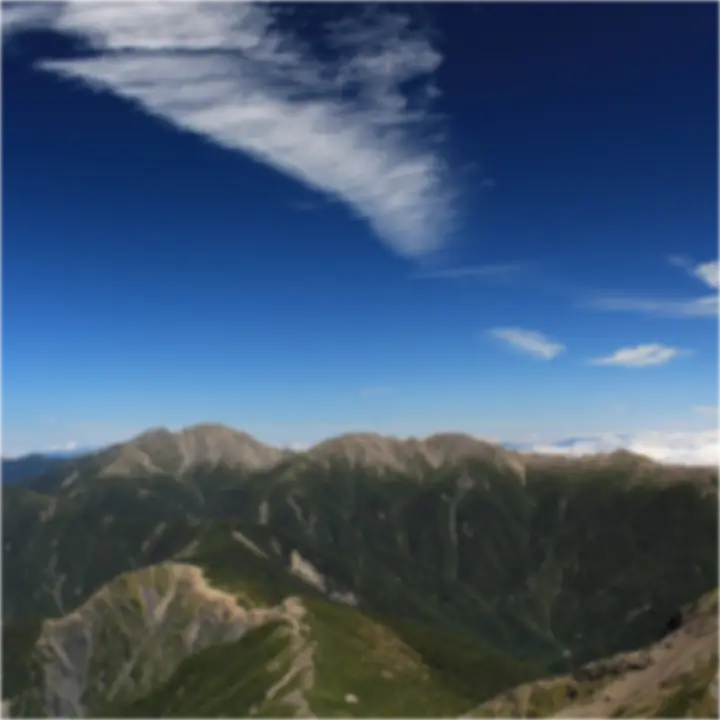
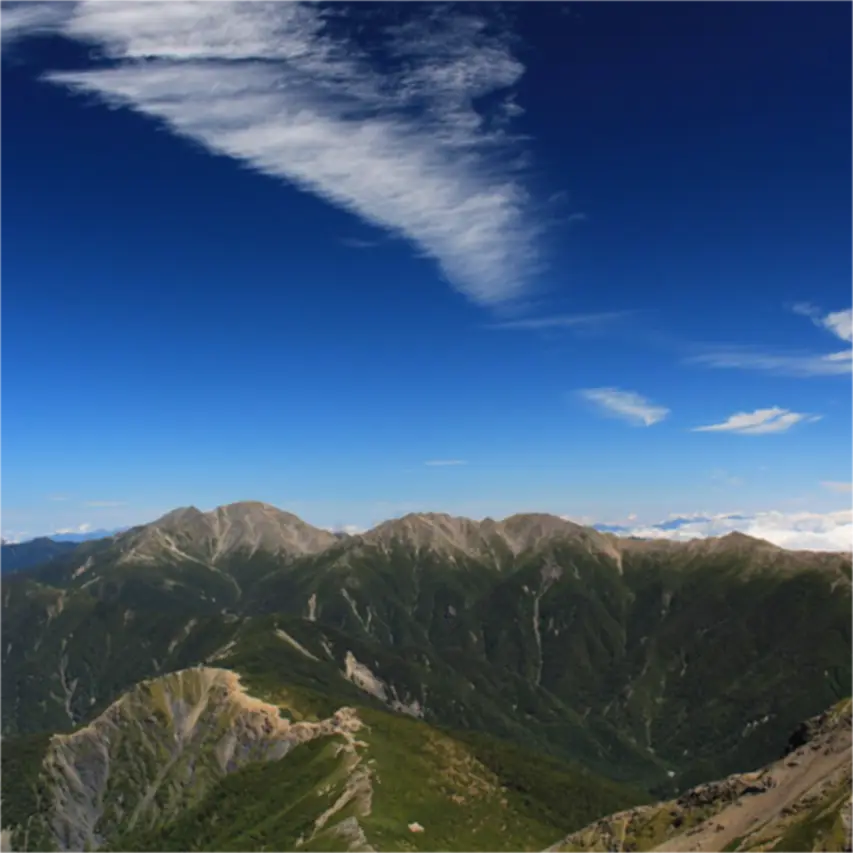
空の写真：ぼかしを減らし、もう一段濃く
- 写真を描き直し：853px（Commons の 1280px 版の短い辺そのまま）・ぼかし 2px→1px・彩度 115%・
  1枚40KBまで（4枚で102KB）。幅 390 の iPhone では 720px・2px がぼけて見えていた。
- 幕をもう一段薄く：明るい面は題の段 0.41→0.30・暦の段 0.475→0.425、暗い面は #686868・#505052。
  写真のあいだの字は題の段 40%・暦 50% 濃く（明るく）。字の濃さの比は画素の試験のまま。
- sw.js は空の写真を一度覚えたら取り直さないので、URL に ?v=2 を付けた（js と CSS がそろうのを試験で見張る）。
- 地面の色 --sky-g と時計の帯の色 BAR を測り直した。
- 「帯の中の写真は動かない」の試験は、くっきりした写真の描き直しの丸め（数点が 8 ほど）と
  1px のずれ（2.5% の点が 18 ほど）を見分ける形に。

Claude-Session: https://claude.ai/code/session_01QxcA8XcD3ijd5vSYv9euxu

diff --git a/tests/sky.js b/tests/sky.js
@@ -15,7 +15,7 @@
    - 紙の丸角の外は空。タブを流す途中も、二枚は並んで流れ、あいだの角に空（角は画面が持つ）
    - いちばん上で引いて紙が下がっても、すき間は空（週・月）。空を下へ伸ばしても帯の中の写真は動かない
    - 中身が跳ね返って下がっても（勢いよく上端に着いたとき）、紙のふちの一本は紙の上の縁に残る
-   - 写真（段2）：4枚が img/sky/ にあり1枚25KBまで・出典（作者・ライセンス・URL）がそろう・sw.js は別の名前の
+   - 写真（段2）：4枚が img/sky/ にあり1枚40KBまで・出典（作者・ライセンス・URL）がそろう・sw.js は別の名前の
      キャッシュへ（ASSETS に入れない）。読めてから data-sky-img が付き、写真が敷かれる。読めない写真は付かず、
      描いた空のまま。設定で外せば両方の札が外れる。字の濃さの比は、写真を敷いた状態でも同じ決まり
    走らせ方：NODE_PATH=/opt/node22/lib/node_modules node tests/sky.js */
@@ -43,7 +43,7 @@ function rgbOf(s) {
   c.check("js は札だけ書く（カスタムプロパティを書かない）", !/setProperty|setVar|\.style\b/.test(js));
   const SLOTS4 = ["morning", "day", "evening", "night"];
   const sizes = SLOTS4.map((s) => { const f = path.join(ROOT, "img/sky", `${s}.webp`); return fs.existsSync(f) ? fs.statSync(f).size : 0; });
-  c.check("写真：img/sky/ に4枚、1枚25KBまで", sizes.every((n) => n > 0 && n <= 25 * 1024), sizes.join(" / "));
+  c.check("写真：img/sky/ に4枚、1枚40KBまで", sizes.every((n) => n > 0 && n <= 40 * 1024), sizes.join(" / "));
   const sw = fs.readFileSync(path.join(ROOT, "sw.js"), "utf8");
   const assets = (sw.match(/const ASSETS = \[([\s\S]*?)\];/) || [])[1] || "";
   c.check("写真：sw.js は別の名前のキャッシュへ（ASSETS に入れない）", /\/img\/sky\//.test(sw) && !/img\/sky/.test(assets));
@@ -98,7 +98,10 @@ function rgbOf(s) {
   const cr = await page.evaluate(() => KN.sky.credits());
   c.check("写真の出典：4枚とも作者・ライセンス・Commons の URL・ファイルが札どおり", cr.length === 4 && cr.every((x) =>
     x.author && /^(CC0|Public domain|CC BY(-SA)? [\d.]+)$/.test(x.license) && /^https:\/\/commons\.wikimedia\.org\/wiki\/File:/.test(x.url)
-    && x.file === `img/sky/${x.slot}.webp`), JSON.stringify(cr.map((x) => [x.slot, x.license])));
+    && new RegExp(`^img/sky/${x.slot}\\.webp(\\?v=\\d+)?$`).test(x.file)), JSON.stringify(cr.map((x) => [x.slot, x.license])));
+  /* sw.js は写真を一度覚えたら取り直さない。描き直したら ?v= を上げる——js の先読みと CSS が同じ URL でないと、二度取りに行く */
+  const css = fs.readFileSync(path.join(ROOT, "css/base.css"), "utf8");
+  c.check("写真の URL（?v= 込み）が js と CSS でそろう", cr.every((x) => css.includes(`url("../${x.file}")`)), cr.map((x) => x.file).join(" "));
   const imgAttr = () => page.evaluate(() => document.getElementById("head").getAttribute("data-sky-img"));
   await page.waitForFunction(() => document.getElementById("head").getAttribute("data-sky-img") === "day", null, { timeout: 5000 }).catch(() => {});
   c.check("写真が読めたら data-sky-img に同じ札、写真が敷かれる", await imgAttr() === "day"
@@ -112,9 +115,9 @@ function rgbOf(s) {
   await page.evaluate(() => document.dispatchEvent(new Event("visibilitychange")));
   c.check("戻ってきたら測り直す（17時は夕方）", await attr() === "evening", String(await attr()));
   const bar = () => page.$$eval('meta[name="theme-color"]', (ms) => ms.map((m) => m.content).join());
-  c.check("時計の帯（theme-color）は空のいちばん上の色（明るい面・暗い面）", await bar() === "#fef2db,#5d503c", await bar());
+  c.check("時計の帯（theme-color）は空のいちばん上の色（明るい面・暗い面）", await bar() === "#ffefcf,#67583f", await bar());
   await page.evaluate(() => KN.store.update((s) => { s.settings.theme = "dark"; }));
-  c.check("暗い面を選んでいれば、どちらの帯も暗い面の色", await bar() === "#5d503c,#5d503c", await bar());
+  c.check("暗い面を選んでいれば、どちらの帯も暗い面の色", await bar() === "#67583f,#67583f", await bar());
   await page.evaluate(() => KN.store.update((s) => { delete s.settings.theme; }));
 
   await page.evaluate(() => KN.store.update((s) => { s.settings.sky = false; }));
@@ -128,14 +131,14 @@ function rgbOf(s) {
   c.check("既定は入", await attr() === "evening", String(await attr()));
 
   /* 朝の写真は読めないことにする（オフラインで持っていない。昼・夕方のあとに先読みされるのは次の時間帯だけ） */
-  await page.route("**/img/sky/morning.webp", (r) => r.abort());
+  await page.route("**/img/sky/morning.webp*", (r) => r.abort());
   await page.clock.setFixedTime(JST("2026-10-08T06:00:00"));
   await page.evaluate(() => document.dispatchEvent(new Event("visibilitychange")));
   await wait(400);
   b = await bgs();
   c.check("読めない写真は札が付かず、描いた空のまま（6時は朝）", await attr() === "morning" && await imgAttr() !== "morning"
     && !/url\(/.test(b.head) && /linear-gradient/.test(b.head), JSON.stringify(b));
-  await page.unroute("**/img/sky/morning.webp");
+  await page.unroute("**/img/sky/morning.webp*");
 
   /* ---- 画素 ---- */
   async function pixels(buf, pts) {
@@ -368,8 +371,11 @@ function rgbOf(s) {
   const pgrid = [];
   for (let y = 1; y < hbs; y += 4) for (let x = 2; x < 390; x += 8) pgrid.push([x, y]);
   const q1 = await pixels(shot1, pgrid), q0 = await pixels(shot0, pgrid);
-  const pdiff = Math.max(...q1.map((p, i) => Math.max(...p.map((v, k) => Math.abs(v - q0[i][k])))));
-  c.check("空を下へ伸ばしても、帯の中の写真は動かない", pdiff <= 4, `最大の差 ${pdiff}`);
+  /* 写真のぼかしを 2px→1px にしてから（10月7日）、描き直しの丸めで数点が 8 ほど違う。1px ずれると
+     2.5% ほどの点が最大 18 違うので、「4 を超える点が 1% まで・最大 12 まで」で見分ける。 */
+  const pd = q1.map((p, i) => Math.max(...p.map((v, k) => Math.abs(v - q0[i][k]))));
+  const pdiff = Math.max(...pd), pover = pd.filter((v) => v > 4).length;
+  c.check("空を下へ伸ばしても、帯の中の写真は動かない", pdiff <= 12 && pover <= pd.length / 100, `最大の差 ${pdiff}・4 を超える点 ${pover}/${pd.length}`);
 
   /* ---- 勢いよく上端に着いても、紙のふち（純白の一本）だけが下りてこない。iPhone の跳ね返りは紙の中身だけを
      下げるので、ふちは中身（掴み手）ではなく紙そのもの（border-top）が持つ。跳ね返りは中身を手で下げてまねる ---- */

diff --git a/css/base.css b/css/base.css
@@ -1097,19 +1097,19 @@ a { color: var(--c-primary); }
    写真の真ん中（地平・山・日）、月に開くとほぼ全部。写真の上には幕を重ね、混ぜ方で字の濃さを守ります
    ——**写真がどんな画素でも**：
    - 明るい面は screen。どの画素も幕より暗くならない。幕は時間帯の色（--sky-v1/v2）で、題の段は
-     輝度 0.41（25% 濃くした主色・ボタンの絵に 3:1）、暦の段は 0.475（45% 濃くした字に 4.5:1）
-   - 暗い面は multiply。どの画素も幕より明るくならない。題の段の #5e5e5e は 25% 明るくした主色・ボタンの絵に
-     3:1、暦の段の #4b4b4d は 45% 明るくした字に 4.5:1
+     輝度 0.30（40% 濃くした主色・ボタンの絵に 3:1）、暦の段は 0.425（50% 濃くした字に 4.5:1）
+   - 暗い面は multiply。どの画素も幕より明るくならない。題の段の #686868 は 40% 明るくした主色・ボタンの絵に
+     3:1、暦の段の #505052 は 50% 明るくした字に 4.5:1
    色が替わるのは題の字（上から 34px まで）と曜日（56px から）のあいだ。
-   字は、写真のあいだだけ濃く（暗い面は明るく）します——題の段の主色とボタンの絵は 25%、暦の字は 45%。
-   幕を薄くして写真を見せるぶんを、字が持つ（「もう少し濃く」と言われて 0%・35% から上げた）。
+   字は、写真のあいだだけ濃く（暗い面は明るく）します——題の段の主色とボタンの絵は 40%、暦の字は 50%。
+   幕を薄くして写真を見せるぶんを、字が持つ（「もっと濃く」と言われて 0%・35% から二度上げた）。
    もとの色を .head で控えて .topbar・.cal で混ぜ直す（同じ要素で自分を参照すると無効になる）。
    写真の下に続く色は --sky-g（写真の下端 12 行の平均）。月に開いて紙を引くと写真の下端より下まで見えるので、
    描いた空の淡い色ではなく写真の地面の色で続ける（写真を足したら、これも測って足す）。 */
-.head[data-sky="morning"][data-sky-img="morning"] { --sky-photo: url("../img/sky/morning.webp"); --sky-v1: #b8a8aa; --sky-v2: #c5b3b7; --sky-g: #301f21; }
-.head[data-sky="day"][data-sky-img="day"]         { --sky-photo: url("../img/sky/day.webp");     --sky-v1: #9eadbd; --sky-v2: #a6bacd; --sky-g: #4b4a2f; }
-.head[data-sky="evening"][data-sky-img="evening"] { --sky-photo: url("../img/sky/evening.webp"); --sky-v1: #bca89a; --sky-v2: #cbb3a2; --sky-g: #414a5f; }
-.head[data-sky="night"][data-sky-img="night"]     { --sky-photo: url("../img/sky/night.webp");   --sky-v1: #a8abba; --sky-v2: #b3b6cb; --sky-g: #3b3943; }
+.head[data-sky="morning"][data-sky-img="morning"] { --sky-photo: url("../img/sky/morning.webp?v=2"); --sky-v1: #9f9294; --sky-v2: #bcaaae; --sky-g: #311f21; }
+.head[data-sky="day"][data-sky-img="day"]         { --sky-photo: url("../img/sky/day.webp?v=2");     --sky-v1: #8997a4; --sky-v2: #9eb1c3; --sky-g: #4c4a2c; }
+.head[data-sky="evening"][data-sky-img="evening"] { --sky-photo: url("../img/sky/evening.webp?v=2"); --sky-v1: #a39285; --sky-v2: #c1aa9a; --sky-g: #404b63; }
+.head[data-sky="night"][data-sky-img="night"]     { --sky-photo: url("../img/sky/night.webp?v=2");   --sky-v1: #9294a1; --sky-v2: #aaaec1; --sky-g: #3b3945; }
 .head[data-sky-img] {
   --sky-veil: linear-gradient(to bottom, var(--sky-v1) calc(var(--safe-t) + 34px), var(--sky-v2) calc(var(--safe-t) + 56px));
   --sky-blend: screen;
@@ -1118,26 +1118,26 @@ a { color: var(--c-primary); }
 }
 @media (prefers-color-scheme: dark) {
   :root:not([data-theme="light"]) .head[data-sky-img] {
-    --sky-veil: linear-gradient(to bottom, #5e5e5e calc(var(--safe-t) + 34px), #4b4b4d calc(var(--safe-t) + 56px));
+    --sky-veil: linear-gradient(to bottom, #686868 calc(var(--safe-t) + 34px), #505052 calc(var(--safe-t) + 56px));
     --sky-blend: multiply;
     --sky-ink: #fff;
   }
 }
 :root[data-theme="dark"] .head[data-sky-img] {
-  --sky-veil: linear-gradient(to bottom, #5e5e5e calc(var(--safe-t) + 34px), #4b4b4d calc(var(--safe-t) + 56px));
+  --sky-veil: linear-gradient(to bottom, #686868 calc(var(--safe-t) + 34px), #505052 calc(var(--safe-t) + 56px));
   --sky-blend: multiply;
   --sky-ink: #fff;
 }
 .head[data-sky-img] > .topbar {
-  --c-text-2: color-mix(in srgb, var(--sky-ink) 25%, var(--sky-was-2));
-  --c-primary: color-mix(in srgb, var(--sky-ink) 25%, var(--sky-was-p));
+  --c-text-2: color-mix(in srgb, var(--sky-ink) 40%, var(--sky-was-2));
+  --c-primary: color-mix(in srgb, var(--sky-ink) 40%, var(--sky-was-p));
 }
 .head[data-sky-img] .cal {
-  --c-text-2: color-mix(in srgb, var(--sky-ink) 45%, var(--sky-was-2));
-  --c-text-3: color-mix(in srgb, var(--sky-ink) 45%, var(--sky-was-3));
-  --c-danger: color-mix(in srgb, var(--sky-ink) 45%, var(--sky-was-d));
-  --c-primary: color-mix(in srgb, var(--sky-ink) 45%, var(--sky-was-p));
-  --cal-blue: color-mix(in srgb, var(--sky-ink) 45%, #4a8fd9);
+  --c-text-2: color-mix(in srgb, var(--sky-ink) 50%, var(--sky-was-2));
+  --c-text-3: color-mix(in srgb, var(--sky-ink) 50%, var(--sky-was-3));
+  --c-danger: color-mix(in srgb, var(--sky-ink) 50%, var(--sky-was-d));
+  --c-primary: color-mix(in srgb, var(--sky-ink) 50%, var(--sky-was-p));
+  --cal-blue: color-mix(in srgb, var(--sky-ink) 50%, #4a8fd9);
 }
 /* 今日の丸の塗りは字ではないので、もとの基調色のまま。 */
 .head[data-sky-img] .cal-day.is-here.is-today .cal-n { background: var(--sky-was-p); }

diff --git a/js/sky.js b/js/sky.js
@@ -84,12 +84,13 @@
   }
 
   /* 札 → 写真（docs/sky.md の「写真の表」と同じ中身。Wikimedia Commons）。CC BY／BY-SA は
-     作者・ライセンス・URL の表示が要る（設定 → 外観 →「空の写真の出典」）。 */
+     作者・ライセンス・URL の表示が要る（設定 → 外観 →「空の写真の出典」）。sw.js は写真を一度覚えたら
+     取り直さないので、**描き直したら `?v=` を上げる**（base.css の --sky-photo も同じ値に）。 */
   const PHOTO = {
-    morning: { file: "img/sky/morning.webp", name: "朝", title: "Mount Fuji early morning from Lake Motosu - Nov 2, 2008", author: "[puamelia]", license: "CC BY-SA 2.0", url: "https://commons.wikimedia.org/wiki/File:Mount_Fuji_early_morning_from_Lake_Motosu_-_Nov_2,_2008.jpg", why: "本栖湖から見た明け方の富士" },
-    day: { file: "img/sky/day.webp", name: "昼", title: "Shirane 3 mountains from Mount Shiomi", author: "Alpsdake", license: "CC BY-SA 4.0", url: "https://commons.wikimedia.org/wiki/File:Shirane_3_mountains_from_Mount_Shiomi.JPG", why: "塩見岳から見た白根三山と青空" },
-    evening: { file: "img/sky/evening.webp", name: "夕方", title: "Shiroyone-Senmaida sunset", author: "MaedaAkihiko", license: "CC BY-SA 4.0", url: "https://commons.wikimedia.org/wiki/File:Shiroyone-Senmaida_sunset.jpg", why: "白米千枚田と海に沈む夕日" },
-    night: { file: "img/sky/night.webp", name: "夜", title: "Niigata-Snowy mountain and spring Milky Way - Flickr - Japanese beauty", author: "Koichi Hayakawa", license: "CC BY-SA 2.0", url: "https://commons.wikimedia.org/wiki/File:Niigata-Snowy_mountain_and_spring_Milky_Way_-_Flickr_-_Japanese_beauty.jpg", why: "雪の山と春の天の川（新潟）" },
+    morning: { file: "img/sky/morning.webp?v=2", name: "朝", title: "Mount Fuji early morning from Lake Motosu - Nov 2, 2008", author: "[puamelia]", license: "CC BY-SA 2.0", url: "https://commons.wikimedia.org/wiki/File:Mount_Fuji_early_morning_from_Lake_Motosu_-_Nov_2,_2008.jpg", why: "本栖湖から見た明け方の富士" },
+    day: { file: "img/sky/day.webp?v=2", name: "昼", title: "Shirane 3 mountains from Mount Shiomi", author: "Alpsdake", license: "CC BY-SA 4.0", url: "https://commons.wikimedia.org/wiki/File:Shirane_3_mountains_from_Mount_Shiomi.JPG", why: "塩見岳から見た白根三山と青空" },
+    evening: { file: "img/sky/evening.webp?v=2", name: "夕方", title: "Shiroyone-Senmaida sunset", author: "MaedaAkihiko", license: "CC BY-SA 4.0", url: "https://commons.wikimedia.org/wiki/File:Shiroyone-Senmaida_sunset.jpg", why: "白米千枚田と海に沈む夕日" },
+    night: { file: "img/sky/night.webp?v=2", name: "夜", title: "Niigata-Snowy mountain and spring Milky Way - Flickr - Japanese beauty", author: "Koichi Hayakawa", license: "CC BY-SA 2.0", url: "https://commons.wikimedia.org/wiki/File:Niigata-Snowy_mountain_and_spring_Milky_Way_-_Flickr_-_Japanese_beauty.jpg", why: "雪の山と春の天の川（新潟）" },
   };
 
   /* 読めた写真・読めなかった写真（同じものを何度も読みに行かない） */
@@ -109,8 +110,8 @@
      差し替えは iPhone に映らなかった（docs/notes.md）ので、読み込みの時点で空のいちばん上の色にしておく。
      色は、写真を敷いた帯のいちばん上（字の無い3行）の平均。空を切ればもとの色へ。 */
   const BAR = {
-    light: { morning: "#e4ced3", day: "#aac4e0", evening: "#fef2db", night: "#c9cbd9" },
-    dark: { morning: "#3b292d", day: "#0c1b32", evening: "#5d503c", night: "#232429" },
+    light: { morning: "#ddc1c8", day: "#95b5d7", evening: "#ffefcf", night: "#bbbdcb" },
+    dark: { morning: "#432d32", day: "#0b1e3b", evening: "#67583f", night: "#27282f" },
   };
   const metas = Array.from(document.querySelectorAll('meta[name="theme-color"]'));
   const plain = metas.map((m) => m.content);

diff --git a/tools/season-art.js b/tools/season-art.js
@@ -14,8 +14,8 @@
 
    空（sky）：tools/sky-src/<札>.jpg（季節ごとにするときは <季節>-<札>.jpg）→ img/sky/ に同じ名前の .webp。
          帯の幅いっぱいに上から敷くので**正方形**に切る（幅 390 の iPhone で、月に開いた暦の高さまで届く。
-         週では上の空だけ、月では下の景色まで）。左右のどこを残すかは `CROP`（中心の位置、0〜1）。彩度は落とさない
-         （上に幕を重ねて淡くなるので）。
+         週では上の空だけ、月では下の景色まで）。左右のどこを残すかは `CROP`（中心の位置、0〜1）。彩度は少し上げる
+         （上に幕を重ねて淡くなるので）。短い辺 853px・ぼかし 1px・1枚40KBまで（下の定数）。
 
    画像の処理は Playwright の Chromium の canvas で行う（sharp などを足さない）。 */
 const fs = require("fs");
@@ -27,12 +27,14 @@ const SKY = process.argv[2] === "sky";
 const PHOTO = process.argv[2] === "photo" || SKY;
 const SRC = path.join(ROOT, "tools", SKY ? "sky-src" : PHOTO ? "season-photo-src" : "season-src");
 const OUT = path.join(ROOT, "img", SKY ? "sky" : PHOTO ? "season-photo" : "season");
-const MAX_ONE = 25 * 1024;
+/* 空は 40KB・短い辺 853px（Commons の 1280px 版の短い辺そのまま）・ぼかし 1px・彩度 115%。帯の写真は幅いっぱいに
+   大きく見えるので、ぼかしが目立った（「ぼかしを減らし、少し濃く」。docs/sky.md） */
+const MAX_ONE = (SKY ? 40 : 25) * 1024;
 const MAX_ALL = 2 * 1024 * 1024;
-const SHORT = 720;
+const SHORT = SKY ? 853 : 720;
 /* 写真は細かいので少し強くぼかす（25KB に収めるため。背景に薄く敷くので形が分かれば足りる） */
-const BLUR = PHOTO ? 2 : 1.2;
-const SATURATE = SKY ? 100 : 55;
+const BLUR = SKY ? 1 : PHOTO ? 2 : 1.2;
+const SATURATE = SKY ? 115 : 55;
 /* 空：正方形に切るとき、左右のどこを中心に残すか（札ごと。無ければ真ん中）。元の写真に合わせて決めた（docs/sky.md の表） */
 const CROP = { morning: 0.55, evening: 0.4, night: 0.55 };
 const NAME = SKY ? /^((?:[a-z]+-)?(morning|day|evening|night))\.(jpe?g|png|webp|tiff?)$/i : /^(k(\d{2}))\.(jpe?g|png|webp|tiff?)$/i;
@@ -87,7 +89,7 @@ const NAME = SKY ? /^((?:[a-z]+-)?(morning|day|evening|night))\.(jpe?g|png|webp|
       for (let i = 0; i < buf.length; i++) bin += String.fromCharCode(buf[i]);
       return { w, h, q: Math.round(q * 100) / 100, size: blob.size, color, b64: btoa(bin) };
     }, [data, SHORT, MAX_ONE, BLUR, SATURATE, crop]);
-    if (r.size > MAX_ONE) { console.log(`${name}：25KB に収まりません（${r.size}B）。切り抜いてから置いてください`); continue; }
+    if (r.size > MAX_ONE) { console.log(`${name}：${MAX_ONE / 1024}KB に収まりません（${r.size}B）。切り抜いてから置いてください`); continue; }
     const out = path.join(OUT, `${name}.webp`);
     fs.writeFileSync(out, Buffer.from(r.b64, "base64"));
     total += r.size;

diff --git a/docs/sky.md b/docs/sky.md
@@ -22,7 +22,7 @@
 |---|---|---|
 | 1 | 仕組みと見た目を、描いた空（色の重なり、4つ）で | 入れた（2026年10月7日） |
 | 2 | 写真を集める（まず4枚、よければ16枚） | 4枚を入れた（2026年10月7日）。16枚は見てから |
-| 3 | iPhone で濃さ・区切り・daily との重なりを詰める | 写真の濃さと縦の位置・紙の丸角の外まで空・流れる途中も丸角・上で引いたすき間も空（2026年10月7日）。時計の帯までは iOS 26 の都合で戻した。同じ日に写真をもう一段濃く・時計の帯の色を theme-color で試し中。ほかは見てから |
+| 3 | iPhone で濃さ・区切り・daily との重なりを詰める | 写真の濃さと縦の位置・紙の丸角の外まで空・流れる途中も丸角・上で引いたすき間も空（2026年10月7日）。時計の帯までは iOS 26 の都合で戻した。同じ日に写真を二段濃く・ぼかしを軽く・時計の帯の色を theme-color で試し中。ほかは見てから |
 
 ## 区切り（`js/sky.js`）
 
@@ -88,17 +88,19 @@
    CC BY／BY-SA は設定に出典。人の顔・ロゴ・透かし・大きな文字は除く）。空だけでなく、海・山・田・雪原・桜・紅葉
    など**その時間の光が分かる景色**でよい。上が空、下に地平や景色のある絵が合う（週では上だけ見え、月に開くと
    下の景色が出る）。
-2. 加工は `tools/season-art.js` に空の口を足す（横長に切る・縮める・ぼかす・WebP。1枚 25KB まで）。置き場は
+2. 加工は `tools/season-art.js` に空の口を足す（正方形に切る・縮める・軽くぼかす・WebP。1枚 40KB まで）。置き場は
    `img/sky/`、名前は `<季節>-<札>.webp`（4枚の間は `<札>.webp`）。
 3. sw.js は季節の絵と同じく**別の名前のキャッシュ**に覚える（ASSETS に入れない。版のキャッシュに入れると、
    出すたびに消える）。読めないあいだは描いた空のまま。
+   一度覚えた写真は取り直さないので、**描き直したら URL の `?v=` を上げる**（`KN.sky.PHOTO` の `file` と base.css の
+   `--sky-photo` を同じ値に。試験が見張る）。いまは `?v=2`（10月7日にぼかしを減らした）。古い版は覚え場所に残るが小さい。
 4. 写真の上には幕を重ねる（混ぜ方で上限・下限を決める。下の「幕」）。濃さは `tests/sky.js` の画素の試験が、
    写真を敷いた状態でも見張る。
 5. 出典を設定の奥に（`KN.seasonArt.credits()` と同じ形）。
 
 ## 写真の表（Wikimedia Commons・2026年10月7日）
 
-`img/sky/<札>.webp`・`KN.sky.PHOTO`。4枚・合計 51KB。全部日本で撮ったもの。候補は検索で約200枚を縮小一覧に並べて
+`img/sky/<札>.webp`・`KN.sky.PHOTO`。4枚・合計 102KB。全部日本で撮ったもの。候補は検索で約200枚を縮小一覧に並べて
 目で選んだ（人の顔・ロゴ・透かし・文字の無いもの、上が空で下に景色のあるもの、4枚で湖・山・海・雪山と散らす）。
 
 | 札 | 写真の題 | 作者 | ライセンス | URL | 選んだ理由 |
@@ -108,8 +110,9 @@
 | 夕方 `evening` | Shiroyone-Senmaida sunset | MaedaAkihiko | CC BY-SA 4.0 | https://commons.wikimedia.org/wiki/File:Shiroyone-Senmaida_sunset.jpg | 白米千枚田と海に沈む夕日 |
 | 夜 `night` | Niigata-Snowy mountain and spring Milky Way - Flickr - Japanese beauty | Koichi Hayakawa | CC BY-SA 2.0 | https://commons.wikimedia.org/wiki/File:Niigata-Snowy_mountain_and_spring_Milky_Way_-_Flickr_-_Japanese_beauty.jpg | 雪の山と春の天の川、麓の町の灯（新潟） |
 
-- 加工：`node tools/season-art.js sky`（`tools/sky-src/<札>.jpg` → 正方形に切って 720px・彩度はそのまま・ぼかし 2px・WebP）。
-  元は Commons の 1280px 版。左右のどこを残すかは道具の `CROP`（朝 0.55・夕方 0.4・夜 0.55・昼は真ん中）。
+- 加工：`node tools/season-art.js sky`（`tools/sky-src/<札>.jpg` → 正方形に切って 853px・彩度 115%・ぼかし 1px・WebP・1枚 40KB まで）。
+  元は Commons の 1280px 版（853px はその短い辺そのまま）。前は 720px・ぼかし 2px・25KB で、幅 390 の iPhone（3倍）では
+  ぼけて見えた（「ぼかしを減らし、少し濃く」・10月7日）。左右のどこを残すかは道具の `CROP`（朝 0.55・夕方 0.4・夜 0.55・昼は真ん中）。
 - 正方形なのは、幅 390 の iPhone で月に開いた暦（安全域込みで約 400px）まで届くように。幅いっぱいに敷き、縦は
   `50% 55%` で合わせる（段3）：週（帯が約 135px）では写真の真ん中——富士・山並み・日・町の灯——が出て、月に開くと
   ほぼ全部。暦の高さにつれて写真も少し動く（伸びるぶんの 55%）。上から合わせていたころは、週では空しか見えなかった。
@@ -122,19 +125,21 @@
 決めて、どんな画素でも比が守られる**ようにした（base.css の「写真（段2・段3）」）。
 
 - 明るい面：`screen`。screen は幕より暗くならない（灰の幕なら「写真を白に重ねて薄めた」のと同じ）。幕は時間帯の
-  色（朝 薄紅・昼 青・夕方 橙・夜 藍。`--sky-v1/v2`）で、題の段は輝度 0.41（25% 濃くした主色に 3:1。いちばん
-  厳しいのは青緑 `#2b7f8f` で 0.389）、暦の段は 0.475（45% 濃くした字に 4.5:1。いちばん厳しいのは土曜の曜日で 0.453）。
+  色（朝 薄紅・昼 青・夕方 橙・夜 藍。`--sky-v1/v2`）で、題の段は輝度 0.30（40% 濃くした主色に 3:1。いちばん
+  厳しいのは青緑 `#2b7f8f` で 0.283）、暦の段は 0.425（50% 濃くした字に 4.5:1。いちばん厳しいのは土曜の曜日で 0.405）。
   幕の色は前の淡い色を、色味を変えずに（線形の光で割合をそろえて）暗くしたもの。
-- 暗い面：`multiply`、幕は灰色。multiply は幕より明るくならない。題の段 `#5e5e5e` は 25% 明るくした主色
-  （いちばん厳しいのは緑で、3:1 の上限が輝度 0.124）とボタンの絵に 3:1、暦の段 `#4b4b4d` は 45% 明るくした字に
-  4.5:1（上限 0.077）。
+- 暗い面：`multiply`、幕は灰色。multiply は幕より明るくならない。題の段 `#686868` は 40% 明るくした主色
+  （いちばん厳しいのは緑で、3:1 の上限が輝度 0.151）とボタンの絵に 3:1、暦の段 `#505052` は 50% 明るくした字に
+  4.5:1（上限 0.085）。
 - 色が替わるのは題の字の下（34px）と曜日の上（56px）のあいだ。
-- **字は、写真のあいだだけ濃く（暗い面は明るく）する。** 題の段の主色とボタンの絵は 25%（`.head[data-sky-img] > .topbar`
-  で `--c-primary`・`--c-text-2`）、暦の字は 45%（`.head[data-sky-img] .cal` で `--c-text-2/3`・`--c-danger`・
+- **字は、写真のあいだだけ濃く（暗い面は明るく）する。** 題の段の主色とボタンの絵は 40%（`.head[data-sky-img] > .topbar`
+  で `--c-primary`・`--c-text-2`）、暦の字は 50%（`.head[data-sky-img] .cal` で `--c-text-2/3`・`--c-danger`・
   `--c-primary`・`--cal-blue`）。もとの色は `.head` で `--sky-was-*` に控える——同じ要素で自分を参照すると無効。
   今日の丸の塗りは字ではないので、もとの基調色のまま。題の字（黒・白）は混ぜない。
 - 2026年10月7日、iPhone で「もう少し画像が濃くていい」と言われ、題 0%・暦 35% から 25%・45% へ。写真の見える幅は
   明るい面の題の段で約2倍、暦の段で約1.4倍、暗い面で約1.2倍。代わりに土日の字の色味が少し沈む。
+  同じ日に「もっと濃く、それかぼかしを減らす」。見本（今／ぼかしだけ／字をさらに濃く／帯だけ暗い写真に白い字）を
+  見せ、「ぼかしを減らし、なおかつ少し濃く」に：題 40%・暦 50%、写真は彩度 115%・ぼかし 1px。白い字の案は採らなかった。
   割合は、各基調色・各字の色について題 3:1・暦 4.5:1 になる幕の輝度の境を計算して決めた。
 - 段2では幕が描いた空そのもの（暦の段は地より暗くできない）で、明るい面の写真はほとんど見えず、暗い面の暦の段も
   輝度 0.018 まで沈んでいた。iPhone で「もう少しよく見えたら」と言われ、字のほうを濃くして幕を薄くした
@@ -145,8 +150,8 @@
 
 ## 実機で見ること（段3）
 
-- 空の濃さ。写真は段3で字を濃くして見せ、同じ日にもう一段（題 25%・暦 45%。上の「幕」）。まだ足りなければ字を
-  さらに濃くするが、暦はもう目安の上限（それより上は曜日・数字が黒・白に近づき、土日の色が濁る）。題の段はまだ下げられる。
+- 空の濃さ。写真は段3で字を濃くして見せ、同じ日にさらに二段（題 40%・暦 50%。上の「幕」）。暦はもう目安の上限を
+  越えている（それより上は曜日・数字が黒・白に近づき、土日の色が濁る）。もっと要るなら、帯だけ暗い写真に白い字の案（見本あり）。
 - 時計の帯（ステータスバー）：**`default` のまま（iOS が塗る）。空は時計の帯の下から。** 2026年10月7日に一度
   `black-translucent` にして時刻・電波・電池の段まで空を敷いたが、同じ日に戻した。わかったこと：
   - この指定は**ホーム画面に追加した時点で焼きつく**（WebKit Bug 260508）。変えたら追加し直しが要る。
